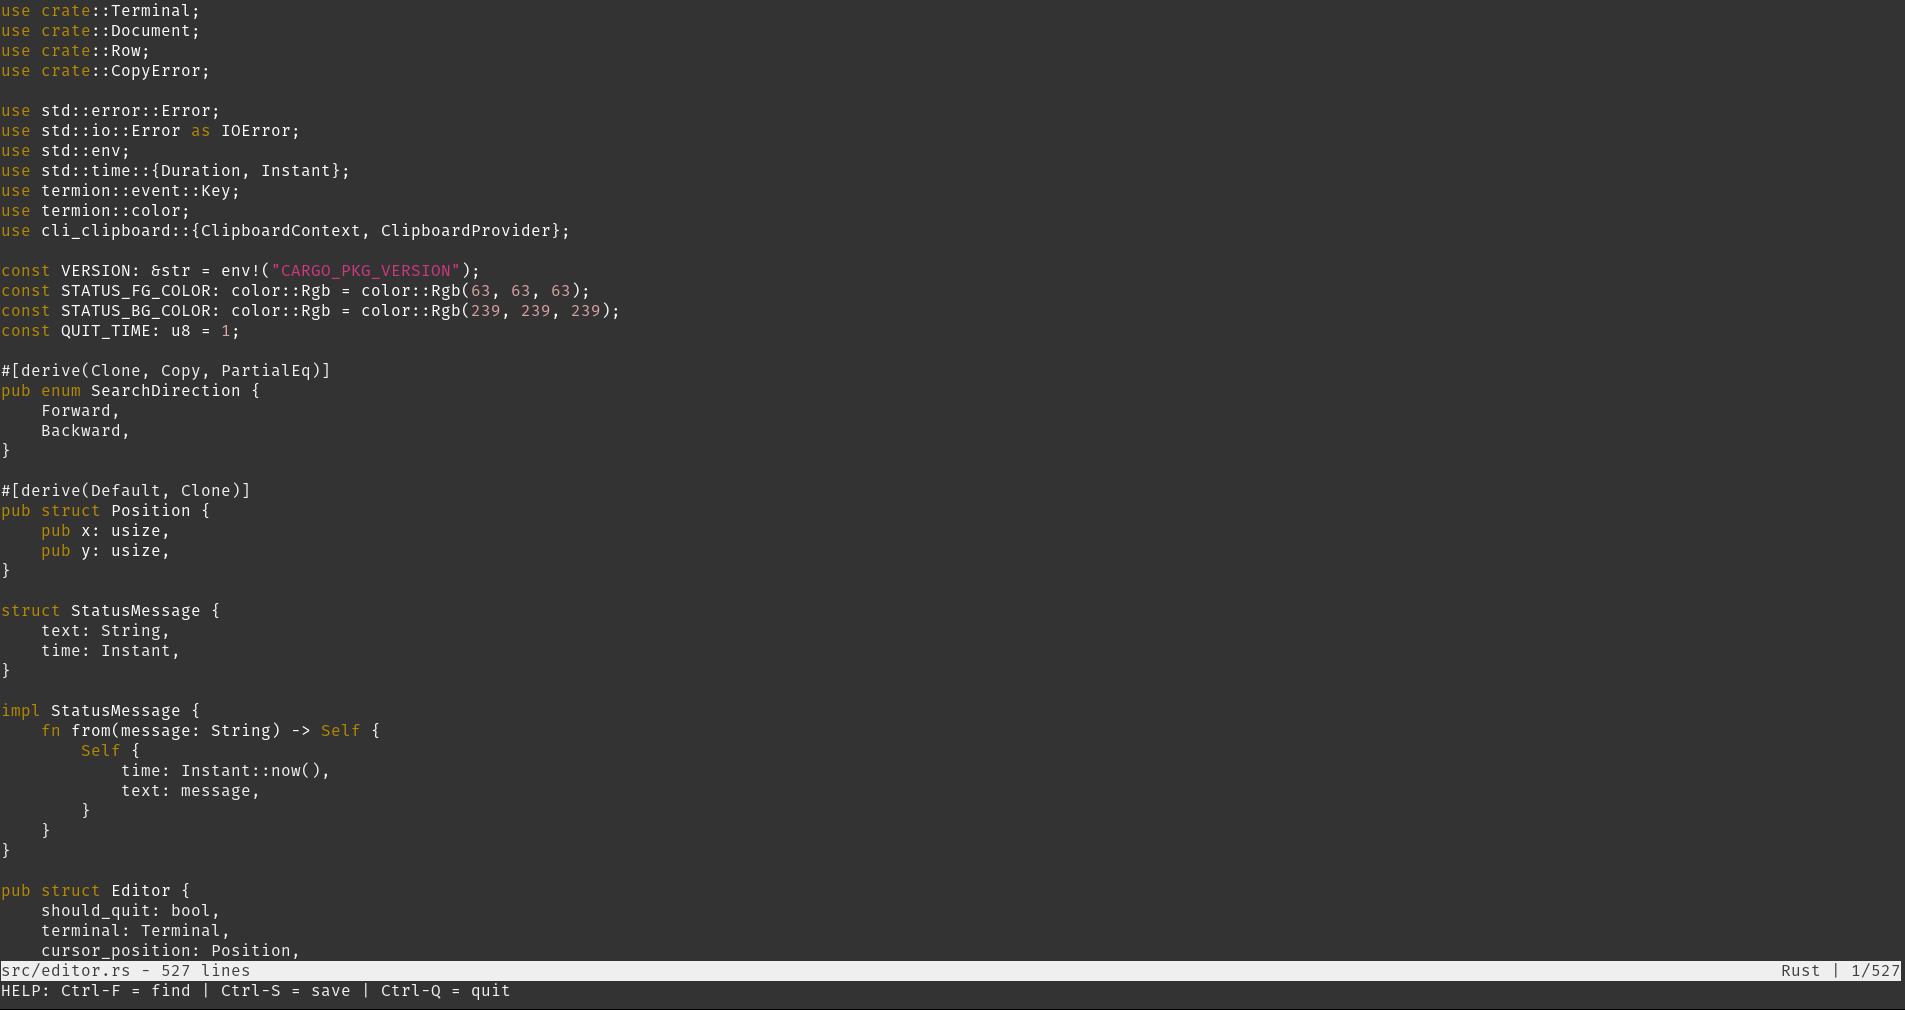
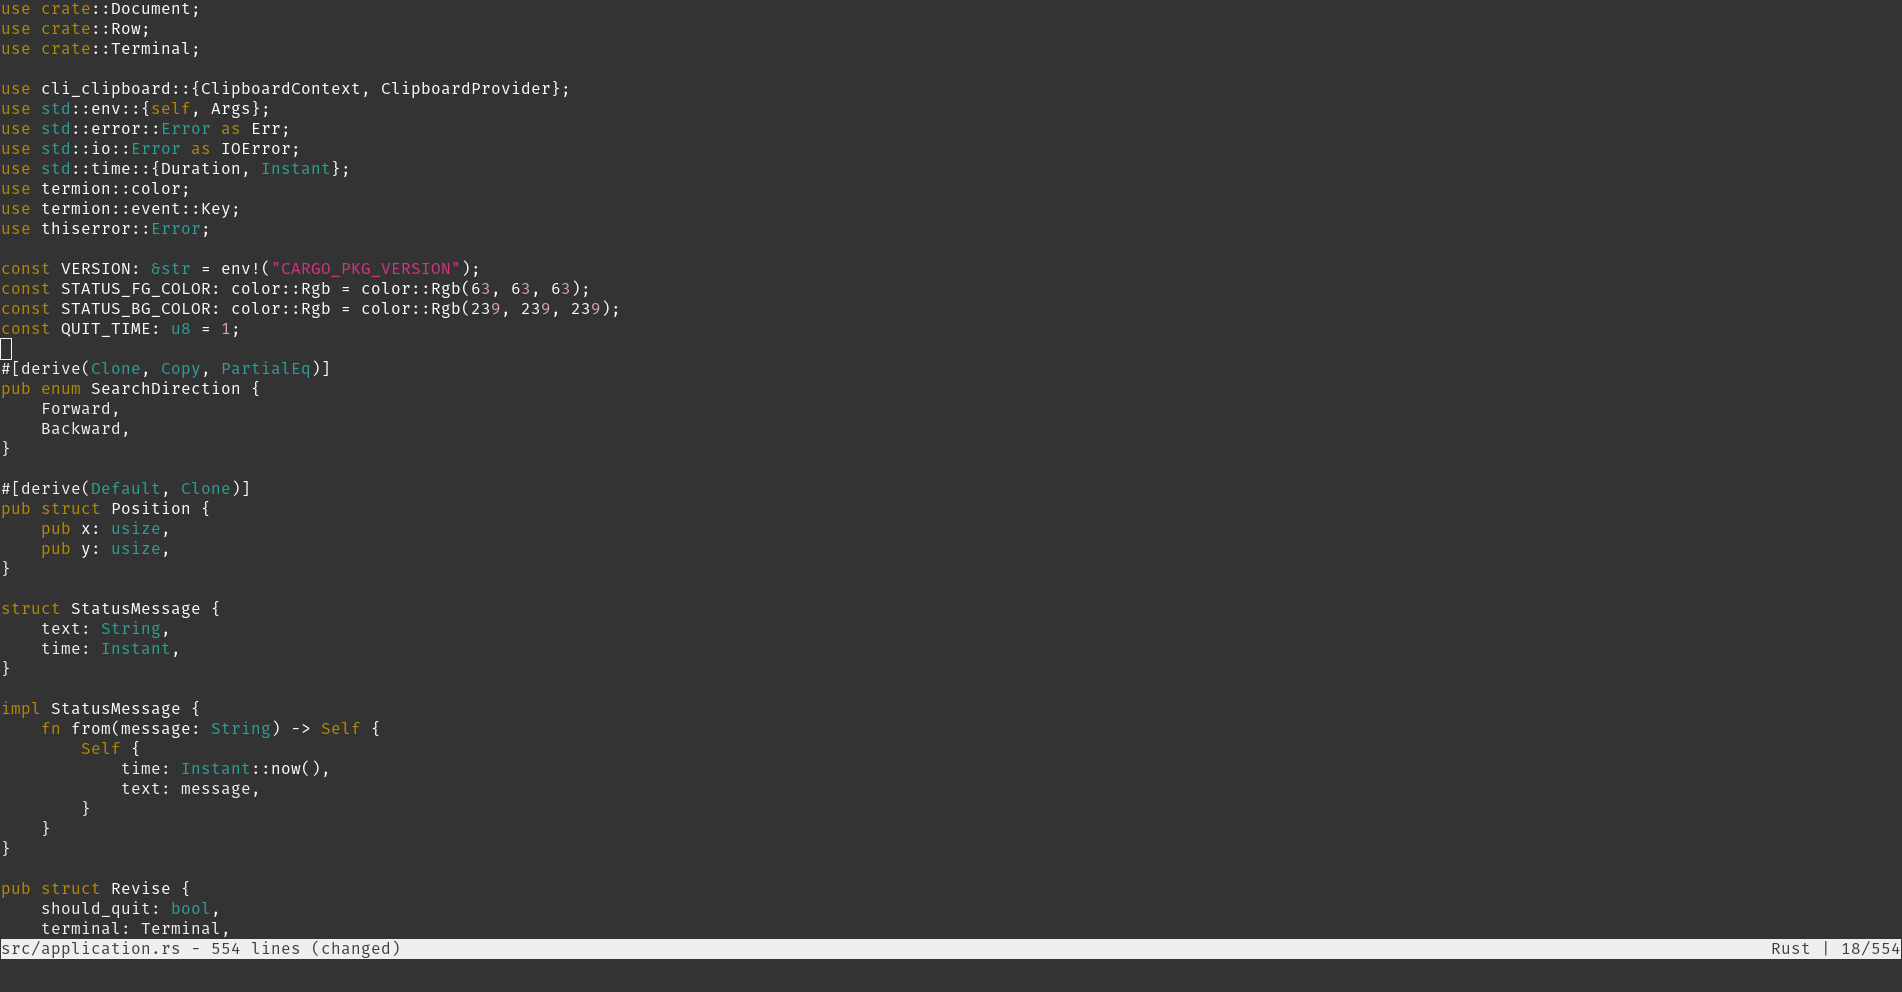
fix keywords highlighting

diff --git a/src/row.rs b/src/row.rs
@@ -35,7 +35,6 @@ impl From<&str> for Row {
 }
 
 impl Row {
-    #[must_use]
     pub fn render(&self, start: usize, end: usize) -> String {
         let end = cmp::min(end, self.string.len());
         let start = cmp::min(start, end);
@@ -73,13 +72,11 @@ impl Row {
 
         result
     }
-
-    #[must_use]
+    
     pub fn len(&self) -> usize {
         self.len
     }
 
-    #[must_use]
     pub fn is_empty(&self) -> bool {
         self.len == 0
     }
@@ -134,7 +131,6 @@ impl Row {
         self.len += new.len;
     }
 
-    #[must_use]
     pub fn split(&mut self, at: usize) -> Self {
         let mut row: String = String::new();
         let mut length = 0;
@@ -163,12 +159,10 @@ impl Row {
         }
     }
 
-    #[must_use]
     pub fn as_bytes(&self) -> &[u8] {
         self.string.as_bytes()
     }
-
-    #[must_use]
+    
     pub fn find(&self, query: &str, at: usize, direction: SearchDirection) -> Option<usize> {
         if at > self.len {
             return None;
@@ -467,7 +461,7 @@ impl Row {
         hl_type: highlight::Type,
     ) -> bool {
         if *index > 0 {
-            let prev_char = chars.get(*index + 1);
+            let prev_char = chars.get(*index - 1);
 
             match prev_char {
                 Some(c) => {

diff --git a/src/document.rs b/src/document.rs
@@ -38,17 +38,14 @@ impl Document {
         })
     }
 
-    #[must_use]
     pub fn row(&self, index: usize) -> Option<&Row> {
         self.rows.get(index)
     }
 
-    #[must_use]
     pub fn is_empty(&self) -> bool {
         self.rows.is_empty()
     }
 
-    #[must_use]
     pub fn len(&self) -> usize {
         self.rows.len()
     }
@@ -142,12 +139,10 @@ impl Document {
         Ok(())
     }
 
-    #[must_use]
     pub fn is_changed(&self) -> bool {
         self.changed
     }
 
-    #[must_use]
     pub fn find(&self, query: &str, at: &Position, direction: SearchDirection) -> Option<Position> {
         if at.y >= self.rows.len() {
             return None;

diff --git a/src/keywords.rs b/src/keywords.rs
@@ -87,6 +87,7 @@ pub mod rust {
             "Copy".to_owned(),
             "PartialEq".to_owned(),
             "Debug".to_owned(),
+            "Instant".to_owned(),
         ]
     }
 }

diff --git a/src/terminal.rs b/src/terminal.rs
@@ -34,7 +34,6 @@ impl Terminal {
         })
     }
 
-    #[must_use]
     pub fn size(&self) -> &Size {
         &self.size
     }

diff --git a/README.md b/README.md
@@ -4,7 +4,7 @@
 
 A minimalist text editor written in Rust.
 
-<img width=1180 height=626 src="https://github.com/nadmax/revise/blob/master/static/revise.png?raw=true" alt="Revise editor screenshot"/>
+<img width=840 height=450 src="https://github.com/nadmax/revise/blob/master/static/revise.png" alt="Revise editor screenshot"/>
 
 ## Prerequisites
 
@@ -14,7 +14,7 @@ See [Installation Guide](https://www.rust-lang.org/tools/install)
 ## Installation
 Run the following command to install Revise
 ```
-cargo install revise --version 0.1.1
+cargo install revise
 ```
 
 ## Usage
